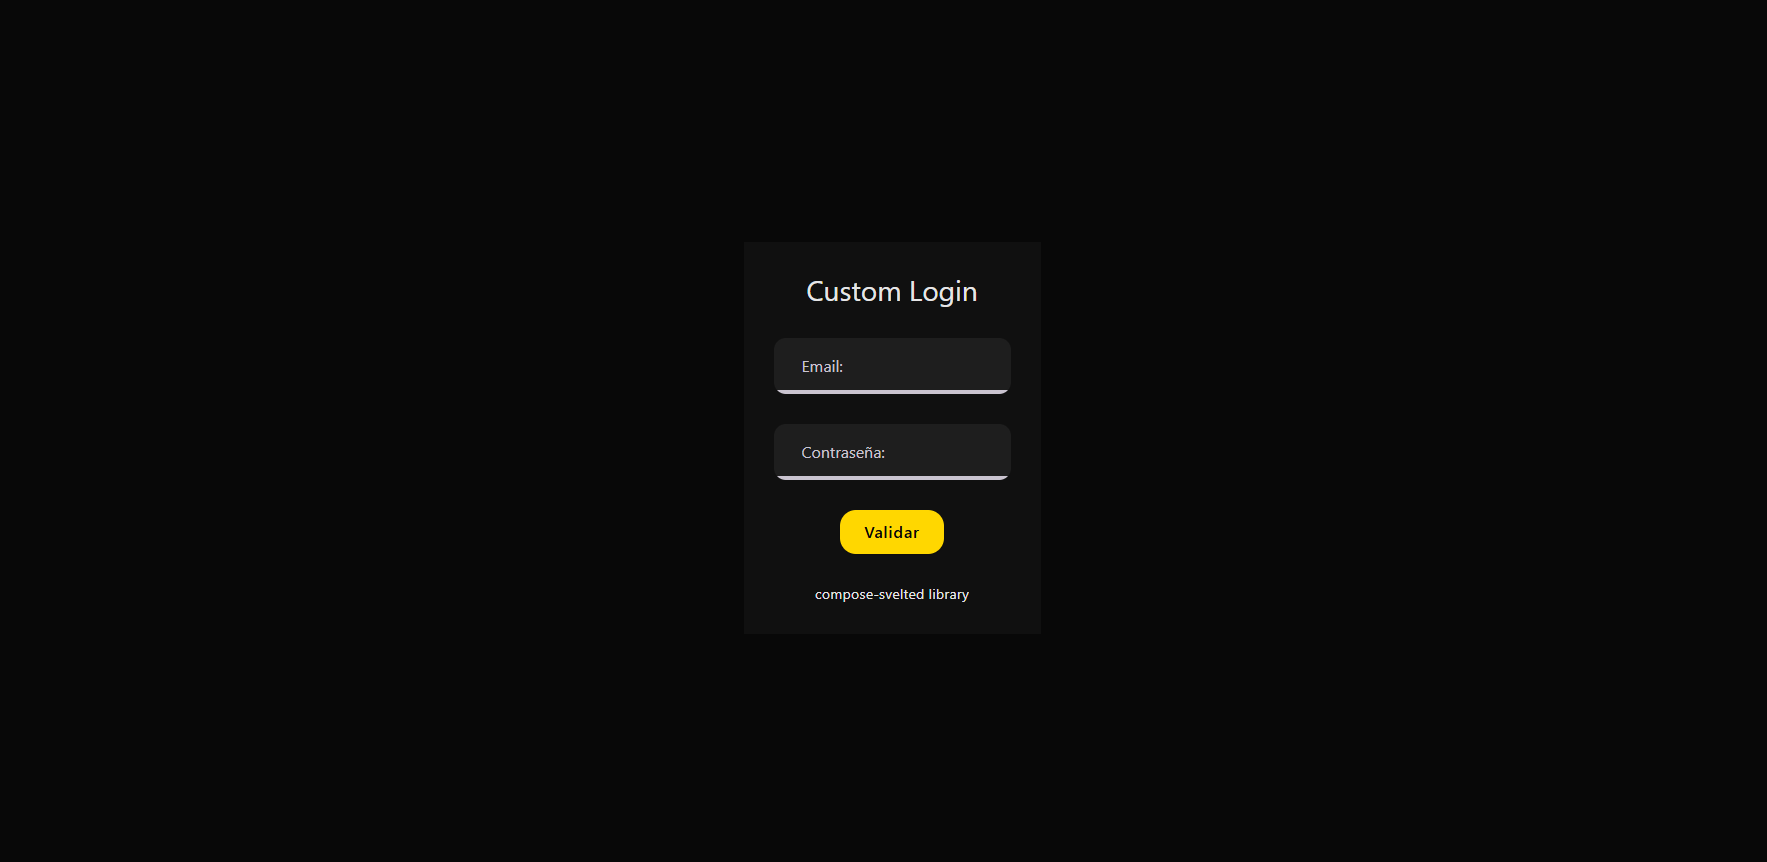
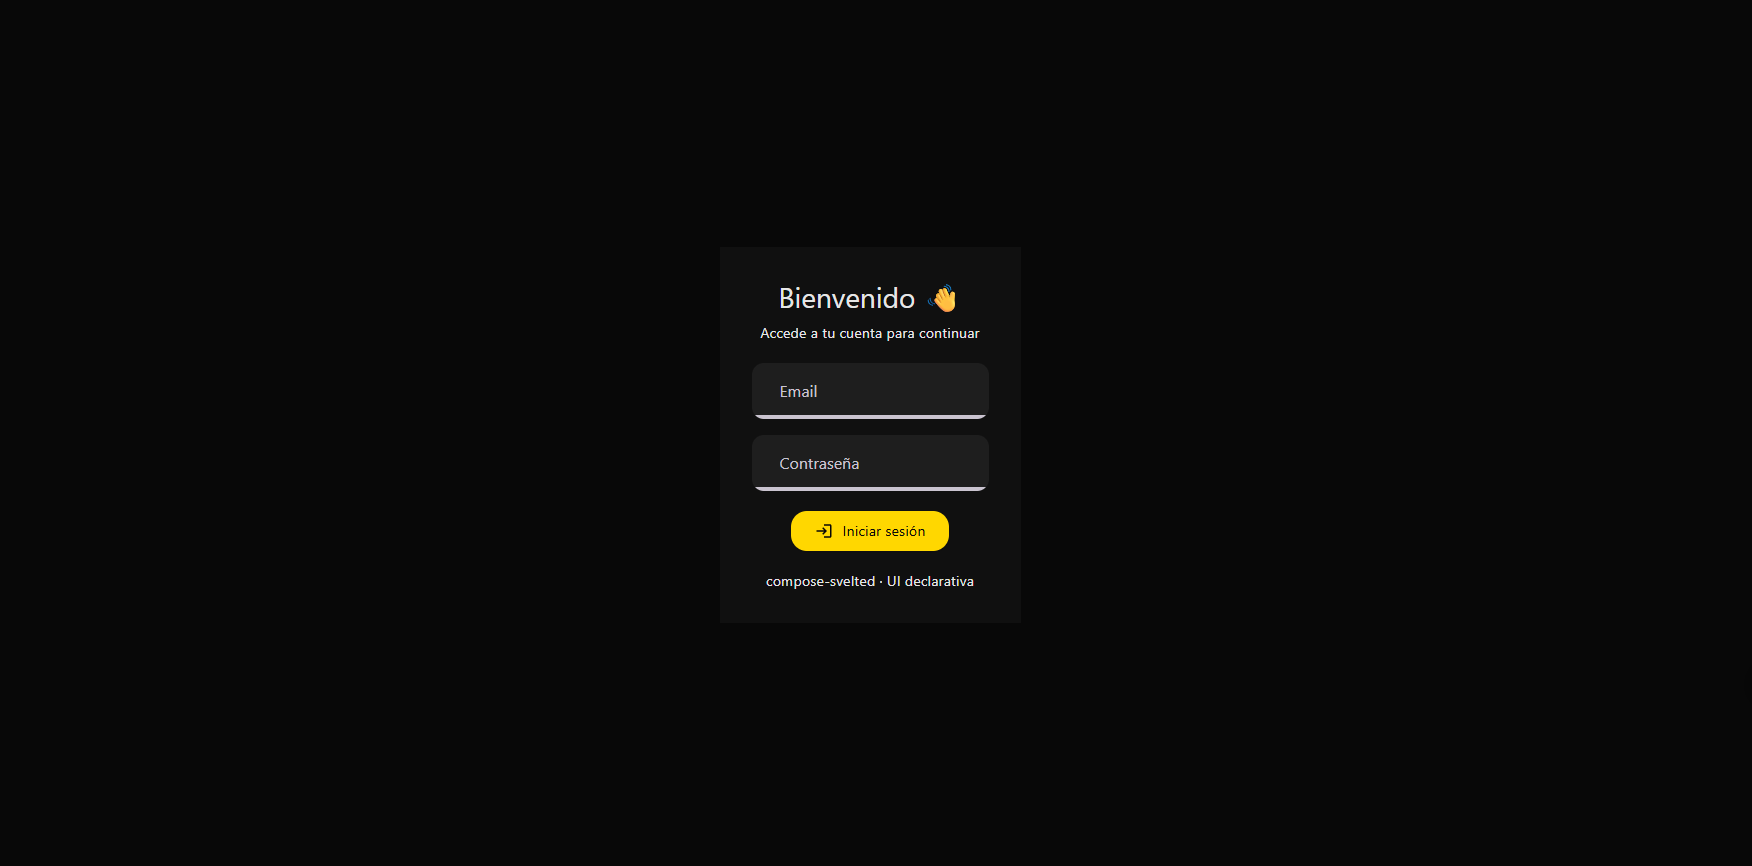
ajustes en la documentacion

Changed region(s): [[0.4315, 0.5128, 0.5856, 0.6937], [0.4315, 0.3318, 0.5548, 0.3921], [0.4315, 0.4223, 0.5856, 0.4826]]

diff --git a/src/samples/CustomLogin.svelte b/src/samples/CustomLogin.svelte
@@ -4,8 +4,8 @@
         Arrangement, Box,
         Button,
         ColorScheme,
-        Column,
-        Modifier, Surface,
+        Column, Icon,
+        Modifier, Row, Surface,
         Text,
         TextField,
         TextStyle
@@ -14,28 +14,69 @@
     let pass = "";
 </script>
 <!--IMPORTS-->
-<Box contentAlignment={Alignment.Center} modifier={Modifier.fillMaxSize()}>
+<Box
+        contentAlignment={Alignment.Center}
+        modifier={Modifier.fillMaxSize().background(ColorScheme.Background)}
+>
     <Surface color={ColorScheme.Surface}>
         <Column
                 horizontalAlignment={Alignment.CenterVertically}
-                verticalArrangement={Arrangement.spacedBy(30)}
-                modifier={Modifier.padding(30)}
+                verticalArrangement={Arrangement.spacedBy(20)}
+                modifier={Modifier.padding(32)}
         >
-            <Text textStyle={TextStyle.HeadlineMedium}>Custom Login</Text>
-            <TextField
-                    value={name}
-                    onValueChange={value => name = value}
-                    label="Email:"
-            />
-            <TextField
-                    value={pass}
-                    onValueChange={value => pass = value}
-                    label="Contraseña:"
-            />
-            <Button>
-                Validar
+            <!-- Header -->
+            <Column
+                    horizontalAlignment={Alignment.CenterVertically}
+                    verticalArrangement={Arrangement.spacedBy(8)}
+            >
+                <Text textStyle={TextStyle.HeadlineMedium}>
+                    Bienvenido 👋
+                </Text>
+                <Text textStyle={TextStyle.BodyMedium}>
+                    Accede a tu cuenta para continuar
+                </Text>
+            </Column>
+
+            <!-- Form -->
+            <Column
+                    verticalArrangement={Arrangement.spacedBy(16)}
+                    modifier={Modifier.fillMaxWidth()}
+            >
+                <TextField
+                        value={name}
+                        onValueChange={value => name = value}
+                        label="Email"
+                />
+
+                <TextField
+                        value={pass}
+                        onValueChange={value => pass = value}
+                        label="Contraseña"
+                />
+            </Column>
+
+            <!-- Action -->
+            <Button modifier={Modifier.fillMaxWidth()}>
+                <Row
+                        horizontalArrangement={Arrangement.spacedBy(10)}
+                        verticalAlignment={Alignment.CenterVertically}
+                >
+                    <Icon
+                            painter="https://cdn.jsdelivr.net/npm/@mdi/svg/svg/login.svg"
+                            tint={ColorScheme.OnPrimary}
+                            modifier={Modifier.size(18)}
+                    />
+
+                    <Text color={ColorScheme.OnPrimary}>
+                        Iniciar sesión
+                    </Text>
+                </Row>
             </Button>
-            <Text textStyle={TextStyle.BodyMedium}>compose-svelted library</Text>
+
+            <!-- Footer -->
+            <Text textStyle={TextStyle.BodyMedium}>
+                compose-svelted · UI declarativa
+            </Text>
         </Column>
     </Surface>
 </Box>

diff --git a/docs/example.md b/docs/example.md
@@ -14,30 +14,68 @@ Compose-svelted follow is a JetpackCompose-like svelte library, the components a
 
 ```xml
 <!--IMPORTS-->
-<Box 
-    contentAlignment={Alignment.Center} 
-    modifier={Modifier.fillMaxSize()}
+<Box
+    contentAlignment={Alignment.Center}
+    modifier={Modifier.fillMaxSize().background(ColorScheme.Background)}
 >
     <Surface color={ColorScheme.Surface}>
         <Column
             horizontalAlignment={Alignment.CenterVertically}
-            verticalArrangement={Arrangement.spacedBy(30)}
-            modifier={Modifier.padding(30)}
+            verticalArrangement={Arrangement.spacedBy(20)}
+            modifier={Modifier.padding(32)}
         >
-            <Text textStyle={TextStyle.HeadlineMedium}>Custom Login</Text>
-            <TextField
-                value={name}
-                onValueChange={value => name = value}
-                label="Email:"
-            />
-            <TextField
-                value={pass}
-                onValueChange={value => pass = value}
-                label="Contraseña:"
-            />
-            <Button>Validar</Button>
+            <!-- Header -->
+            <Column
+                horizontalAlignment={Alignment.CenterVertically}
+                verticalArrangement={Arrangement.spacedBy(8)}
+            >
+                <Text textStyle={TextStyle.HeadlineMedium}>
+                    Bienvenido 👋
+                </Text>
+                <Text textStyle={TextStyle.BodyMedium}>
+                    Accede a tu cuenta para continuar
+                </Text>
+            </Column>
+
+             <!-- Form -->
+            <Column
+                verticalArrangement={Arrangement.spacedBy(16)}
+                modifier={Modifier.fillMaxWidth()}
+            >
+                <TextField
+                    value={name}
+                    onValueChange={value => name = value}
+                    label="Email"
+                />
+
+                <TextField
+                    value={pass}
+                    onValueChange={value => pass = value}
+                    label="Contraseña"
+                />
+            </Column>
+
+            <!-- Action -->
+            <Button modifier={Modifier.fillMaxWidth()}>
+                <Row
+                    horizontalArrangement={Arrangement.spacedBy(10)}
+                    verticalAlignment={Alignment.CenterVertically}
+                >
+                    <Icon
+                        painter="https://cdn.jsdelivr.net/npm/@mdi/svg/svg/login.svg"
+                        tint={ColorScheme.OnPrimary}
+                        modifier={Modifier.size(18)}
+                    />
+
+                    <Text color={ColorScheme.OnPrimary}>
+                        Iniciar sesión
+                    </Text>
+                </Row>
+            </Button>
+
+            <!-- Footer -->
             <Text textStyle={TextStyle.BodyMedium}>
-                compose-svelted library
+                compose-svelted · UI declarativa
             </Text>
         </Column>
     </Surface>
